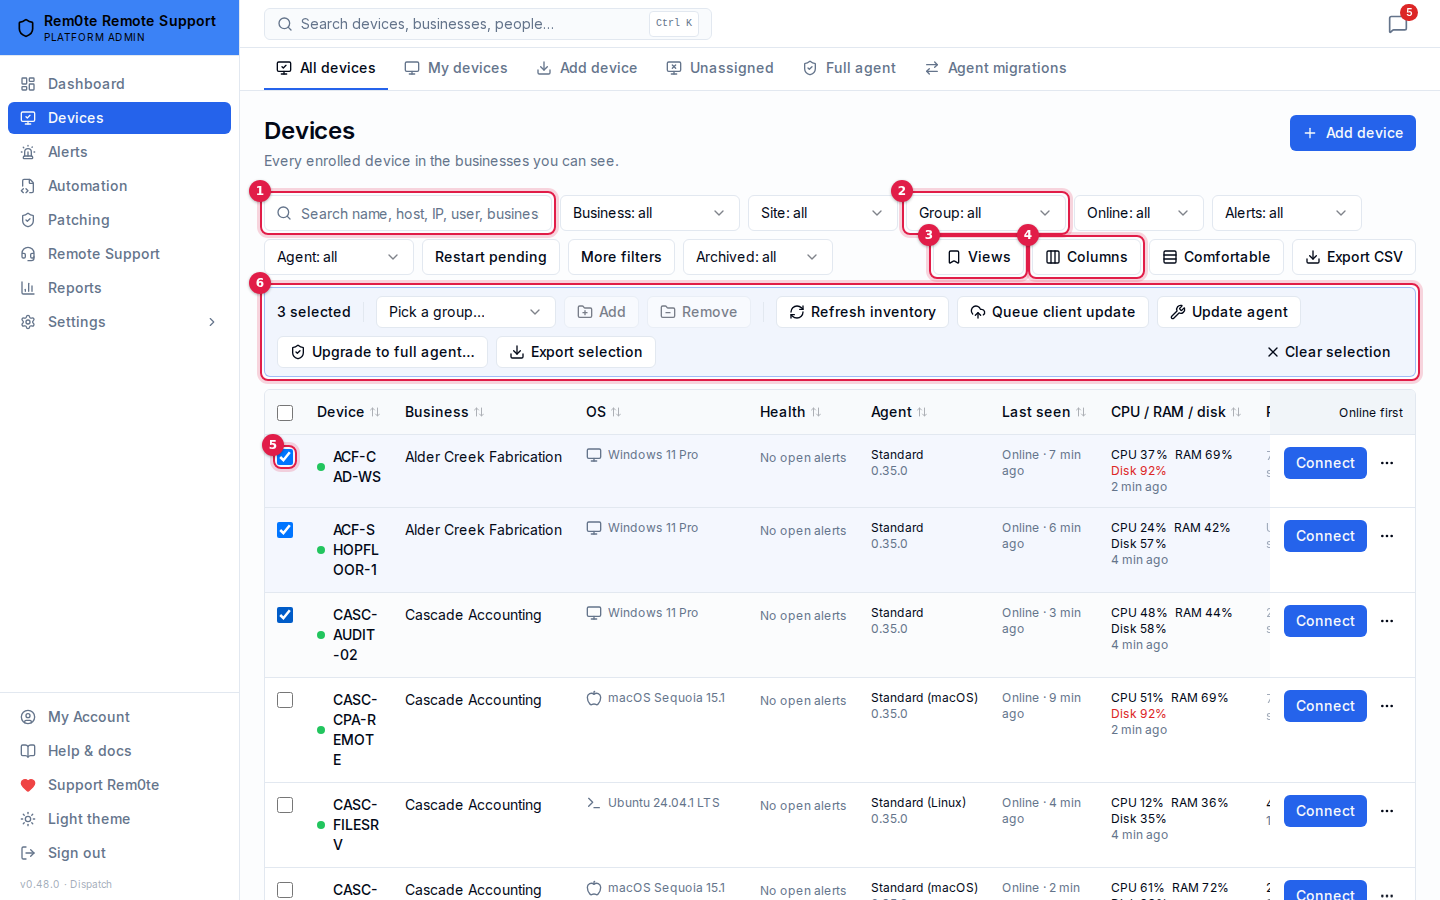
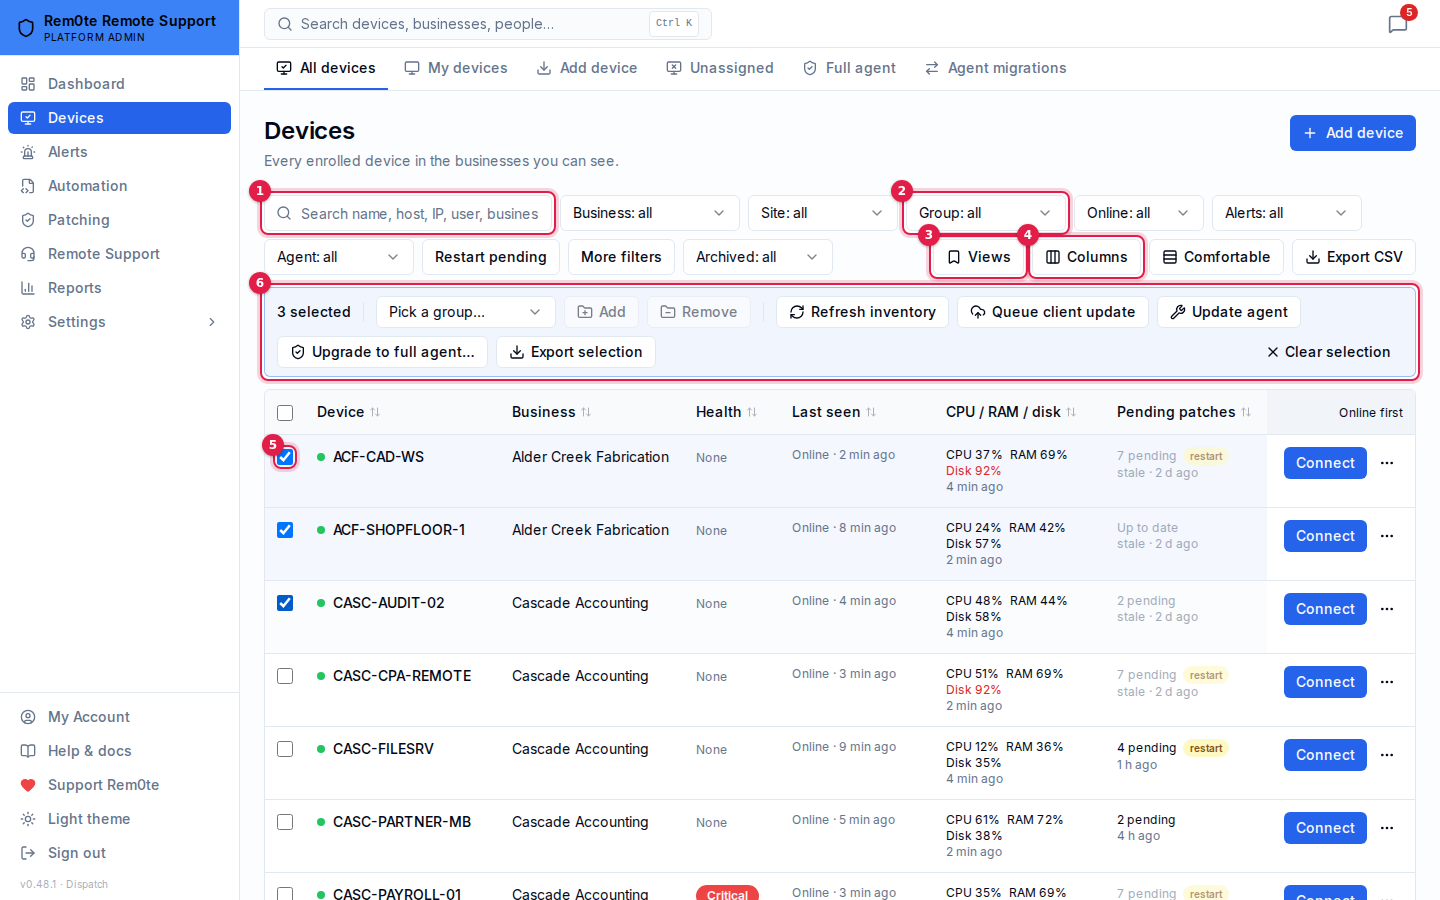
v0.48.1: Devices list fits at 1440 and 1280 px
0.47.1's break-all split single-token device names mid-word, and OS, Agent
and Last seen still pushed Pending patches under the pinned Connect column
at 1440 px. Device names are nowrap again; OS and Agent show from 1536 px
(2xl); Last seen from 1440 px (a new 'wide' step); Health's empty state is
a short "None". Measured on the docs stack: scrollWidth == clientWidth at
1440x1000 (1150) and 1280x900 (990). Docs and the list images updated.

diff --git a/apps/web/components/endpoints/list/columns.tsx b/apps/web/components/endpoints/list/columns.tsx
@@ -41,8 +41,13 @@ export interface ColumnDef {
   /**
    * 0.47.1: hidden on narrower screens so the default set fits beside the
    * sidebar without sideways scrolling. Literal classes, so Tailwind sees them.
+   * 0.48.1, measured with the sidebar open: at 1440 px the content pane is
+   * 1150 px wide and Device, Business, Health, Last seen, CPU / RAM / disk and
+   * Pending patches fill it exactly; at 1280 px it is 990 px, so Last seen
+   * waits for 1440 px ('wide'), and OS, Agent, Site and Logged-in user for
+   * 1536 px ('2xl').
    */
-  hideBelow?: 'xl' | '2xl';
+  hideBelow?: 'wide' | '2xl';
   cell?: (r: DeviceRow, c: CellContext) => React.ReactNode;
 }
 
@@ -61,7 +66,7 @@ function Pct({ label, v }: { label: string; v: number | null }) {
   return <span className={hot}>{label} {v}%</span>;
 }
 
-export const HIDE_BELOW: Record<'xl' | '2xl', string> = { xl: 'hidden xl:table-cell', '2xl': 'hidden 2xl:table-cell' };
+export const HIDE_BELOW: Record<'wide' | '2xl', string> = { wide: 'hidden min-[1440px]:table-cell', '2xl': 'hidden 2xl:table-cell' };
 
 export const COLUMNS: ColumnDef[] = [
   {
@@ -71,7 +76,7 @@ export const COLUMNS: ColumnDef[] = [
         <span className={cn('h-2 w-2 rounded-full shrink-0', CONNECTIVITY_DOT[connectivityFrom(r, c.now)])} data-connectivity={connectivityFrom(r, c.now)}
           title={`${connectivityLabel(connectivityFrom(r, c.now), r.lastSeenAt, c.now)}. ${connectivityHint(connectivityFrom(r, c.now))}`} />
         <div className="min-w-0">
-          <Link href={`/endpoints/${r.id}`} className="font-medium hover:underline break-all">{r.name}</Link>
+          <Link href={`/endpoints/${r.id}`} className="font-medium hover:underline whitespace-nowrap">{r.name}</Link>
           {r.hostname && r.hostname.toLowerCase() !== r.name.toLowerCase() ? (
             <p className="text-xs text-muted-foreground truncate">{r.hostname}</p>
           ) : null}
@@ -95,7 +100,7 @@ export const COLUMNS: ColumnDef[] = [
     )),
   },
   {
-    id: 'os', label: 'OS', defaultOn: true, sort: 'os', hideBelow: 'xl',
+    id: 'os', label: 'OS', defaultOn: true, sort: 'os', hideBelow: '2xl',
     cell: (r) => (
       <span className="flex items-center gap-1.5" title={r.os ?? r.platform ?? 'Unknown'}>
         <OsIcon platform={r.platform ?? r.os} />
@@ -109,13 +114,13 @@ export const COLUMNS: ColumnDef[] = [
       if (!r.alerts) return <span className="text-muted-foreground" title="Seeing alerts needs the monitoring:alerts permission">—</span>;
       // Derived from open monitoring alerts only: "no open alerts" is not a
       // claim that nothing is wrong, only that no monitor says so.
-      if (!r.alerts.open) return <span className="text-xs text-muted-foreground whitespace-nowrap">No open alerts</span>;
+      if (!r.alerts.open) return <span className="text-xs text-muted-foreground whitespace-nowrap" title="No open alerts">None</span>;
       const w = r.alerts.worst;
       return <Badge variant={w === 'CRITICAL' ? 'destructive' : w === 'WARNING' ? 'warning' : 'secondary'}>{w === 'CRITICAL' ? 'Critical' : w === 'WARNING' ? 'Warning' : 'Info'}</Badge>;
     },
   },
   {
-    id: 'agent', label: 'Agent', defaultOn: true, sort: 'agent',
+    id: 'agent', label: 'Agent', defaultOn: true, sort: 'agent', hideBelow: '2xl',
     // The last heartbeat is the Last seen column; this one says which agent sent it.
     cell: (r, c) => (
       <div className="text-xs whitespace-nowrap" title={r.agent.lastHeartbeatAt ? `Last heartbeat ${new Date(r.agent.lastHeartbeatAt).toLocaleString()}` : 'No heartbeat yet'}>
@@ -127,7 +132,7 @@ export const COLUMNS: ColumnDef[] = [
     ),
   },
   {
-    id: 'lastSeen', label: 'Last seen', defaultOn: true, sort: 'lastSeen',
+    id: 'lastSeen', label: 'Last seen', defaultOn: true, sort: 'lastSeen', hideBelow: 'wide',
     cell: (r, c) => (
       <span className={cn('text-xs block max-w-[8rem]', connectivityFrom(r, c.now) === 'agent_silent' ? CONNECTIVITY_TEXT.agent_silent : 'text-muted-foreground')}
         title={`${r.lastSeenAt ? new Date(r.lastSeenAt).toLocaleString() : 'Never'}${connectivityFrom(r, c.now) === 'agent_silent' ? `. ${connectivityHint('agent_silent')}` : ''}`} data-testid="last-seen-cell">

diff --git a/apps/web/app/(app)/help/page.tsx b/apps/web/app/(app)/help/page.tsx
@@ -316,12 +316,12 @@ const SECTIONS: Section[] = [
           device last reported, not what it is doing now. Health and alerts need the monitoring:alerts permission.
         </p>
         <p>
-          <strong className="text-foreground">Narrower windows show fewer columns (0.47.1).</strong> So the list fits
-          without scrolling sideways, OS shows only on windows at least 1280 pixels wide, and Site and Logged-in user
-          only from 1536 pixels; the column picker marks them <em>(wide screens)</em>. Alerts is off by default, because
-          Health already shows the worst open alert. Long business and site names are cut short with the full name on
-          hover, device names and figures wrap, and Connect
-          stays on the right.
+          <strong className="text-foreground">Narrower windows show fewer columns (0.47.1, 0.48.1).</strong> So the
+          list fits beside the sidebar without scrolling sideways, Last seen shows only on windows at least 1440 pixels
+          wide, and OS, Agent, Site and Logged-in user only from 1536 pixels; the column picker marks them{' '}
+          <em>(wide screens)</em>, and the dot beside each name still shows whether it is online. Alerts is off by
+          default, because Health already shows the worst open alert. Device names never wrap, long business and site
+          names are cut short with the full name on hover, and Connect stays on the right.
         </p>
         <p>
           <strong className="text-foreground">Columns</strong> and row density are remembered in this browser.{' '}

diff --git a/docs/technician-guide.md b/docs/technician-guide.md
@@ -131,7 +131,7 @@ company-wide; for a technician, only the machines your assignment names.
 | **Device** | Name, hostname, and a dot: green online (the agent is checking in), amber reachable through RustDesk with the agent silent, grey offline. |
 | **Business / Site** | Who the machine belongs to and where. |
 | **OS** | An icon and the reported Windows edition or platform. |
-| **Health** | The worst *open* monitoring alert — Critical, Warning, Info — or *No open alerts*. That is not a promise nothing is wrong, only that no monitor says so. |
+| **Health** | The worst *open* monitoring alert — Critical, Warning, Info — or *None* (no open alerts). That is not a promise nothing is wrong, only that no monitor says so. |
 | **Agent** | *Signed* (the 0.27+ signed agent), *Standard*, or *No agent report*, with when it last checked in. |
 | **Last seen** | *Online*, *Reachable (RustDesk) · agent silent …* in amber, or how long ago it was last heard from. |
 | **Logged-in user** | Who the last heartbeat said was signed in. |
@@ -139,12 +139,15 @@ company-wide; for a technician, only the machines your assignment names.
 | **Pending patches** | From the last update scan: how many are waiting, and a *restart* tag if Windows wants one. |
 | **Alerts** | How many monitoring alerts are open (or acknowledged). Click it for the device's Monitoring tab. |
 
-**Narrower windows show fewer columns (0.47.1).** So the list fits the page without scrolling sideways, **OS**
-shows only when the window is at least 1280 pixels wide, and **Site** and **Logged-in user** only from 1536 pixels.
-The column picker marks them *(wide screens)*. A column you chose is never removed, only hidden while the window is
-narrow. **Alerts** is off by default, because **Health** already shows the worst open alert; turn it on under
-**Columns**. A browser that saved its own column choice keeps it. Long business and site names are cut short, with
-the full name on hover, and **Connect** stays pinned on the right.
+**Narrower windows show fewer columns (0.47.1, 0.48.1).** So the list fits the page beside the sidebar without
+scrolling sideways, **Last seen** shows only when the window is at least 1440 pixels wide, and **OS**, **Agent**,
+**Site** and **Logged-in user** only from 1536 pixels. At 1280 to 1439 pixels that leaves Device, Business, Health,
+CPU / RAM / disk and Pending patches; the dot beside each name still says online, agent silent or offline. The
+column picker marks the hidden ones *(wide screens)*. A column you chose is never removed, only hidden while the
+window is narrow. **Alerts** is off by default, because **Health** already shows the worst open alert (*None* when
+there is none); turn it on under **Columns**. A browser that saved its own column choice keeps it. Device names
+never wrap; long business and site names are cut short, with the full name on hover; and **Connect** stays pinned
+on the right.
 
 **Every number says how old it is, and an old one is greyed.** A resource sample
 is stale after 15 minutes (five missed heartbeats); an update scan after 36 hours.

diff --git a/CHANGELOG.md b/CHANGELOG.md
@@ -9,9 +9,9 @@ Format follows [Keep a Changelog](https://keepachangelog.com/en/1.0.0/).
 
 **The documentation, the in-app help and the screenshots catch up with 0.40 to 0.48.**
 
-Nothing in the API or the agent changes. The docs had fallen behind the code. `docs/diagnostics.md` still said
-nothing on the Processes and Services tabs acts on the computer, though 0.45 put Start, Stop, Restart, Startup
-type and End process there. The gallery said starting or stopping a service "is not offered here". The README's
+Nothing in the API or the agent changes; the one code change is the Devices list layout, below. The docs had
+fallen behind the code. `docs/diagnostics.md` still said nothing on the Processes and Services tabs acts on the
+computer, though 0.45 put Start, Stop, Restart, Startup type and End process there. The gallery said starting or stopping a service "is not offered here". The README's
 limitations said Rem0te had "no scripting… no software deployment". The 0.48 pages had no pictures at all.
 
 **Pages**
@@ -63,9 +63,25 @@ gallery now has 69 images.
 - `capture-media.mjs` takes a per-shot `height`, so a dialog taller than the window is not cut off above its
   buttons.
 
-Seen while capturing, not fixed here: at 1440 px the 0.47.1 Devices list still breaks device names mid-word
-(`break-all` on the name cell). Its last data column is partly hidden behind the pinned Connect column. The
-recaptured Devices-list images show this as it is.
+**The Devices list fits at 1440 and 1280 pixels, for real this time.** 0.47.1 set out to stop the list scrolling
+sideways, but it measured nothing. Its `break-all` on the device name split single-token names mid-word
+(`CASC-PAY` / `ROLL-01`), because breaking the name was the only way the row could shrink. Even then, OS (from
+1280 px), Agent and Last seen together were wider than the 1150 px content pane at 1440, so Pending patches sat
+under the pinned Connect column. Now, in `columns.tsx`:
+
+- The device name is `whitespace-nowrap` again.
+- OS and Agent show from 1536 px (`2xl`), with Site and Logged-in user.
+- Last seen shows from 1440 px, through a new `wide` step (`min-[1440px]`). The connectivity dot beside each name
+  still says online, agent silent or offline.
+- Health's empty state is a short muted *None*, with *No open alerts* on hover.
+
+Measured in Playwright on the docs stack with the sidebar open and the default columns. The table's `scrollWidth`
+equals its `clientWidth`: 1150 at 1440×1000 and 990 at 1280×900. Every header ends left of Connect, and every
+name is on one line.
+
+Not fixed: from 1536 px all nine columns come back at once and need 1679 px. So at 1536 to about 1970 px the table
+still scrolls sideways, and Pending patches starts under Connect. That was already so in 0.47.1. It needs the wide
+columns staged across more widths, which is a design choice rather than a fix.
 
 ---
 

diff --git a/docs/screenshots.md b/docs/screenshots.md
@@ -138,10 +138,11 @@ The platform's own security surface, in one place.
 ## Devices
 
 ### Device list — light
-<a href="images/github/computers-inventory-light.png"><img src="images/github/computers-inventory-light.png" alt="The Devices list in light theme at 1440 pixels: search, filters for business, site, group, online, alerts, agent, restart pending and archived, Views, Columns and Export CSV, above a table with device, business, OS, health, agent, last seen and CPU, RAM and disk, and a Connect button per row."></a>
+<a href="images/github/computers-inventory-light.png"><img src="images/github/computers-inventory-light.png" alt="The Devices list in light theme at 1440 pixels: search, filters for business, site, group, online, alerts, agent, restart pending and archived, Views, Columns and Export CSV, above a table with device, business, health, last seen, CPU, RAM and disk, and pending patches, and a Connect button per row."></a>
 
-From 0.47.1 the list fits the window: OS appears from 1280 pixels, Site and Logged-in user from 1536, and Alerts is
-off by default because Health already shows the worst open alert. Device names wrap rather than widen the row.
+From 0.48.1 the list fits a 1440-pixel window with the sidebar open: Last seen appears from 1440 pixels, and OS,
+Agent, Site and Logged-in user from 1536. Alerts is off by default because Health already shows the worst open
+alert.
 
 Every device you may see, across every business. The server does the searching and
 filtering, so it covers every page, not just the one on screen.

diff --git a/README.md b/README.md
@@ -90,7 +90,8 @@ says what is proven and what is not.
 - **Automatic agent updates per computer and per business (0.46)**, and **fewer "confirm it is you" prompts**
   for everyday changes (0.47, a Platform Admin setting). [Updates](docs/updates.md)
 - **Direct mode for a single operator (0.40)**: requests are signed at once, with no second approver.
-- **The Devices list fits the window (0.47.1)**: OS, Site and Logged-in user show on wider screens only.
+- **The Devices list fits the window (0.47.1, 0.48.1)**: at 1280 and 1440 pixels with the sidebar open, with
+  Last seen, OS, Agent, Site and Logged-in user kept for wider screens.
 
 ## What's new in 0.30
 

diff --git a/docs/README.md b/docs/README.md
@@ -13,7 +13,7 @@ contents panel on every page and search across all of it (press <kbd>/</kbd>).
 ## Using it
 
 - **[technician-guide.md](technician-guide.md)** — day-to-day: find a computer,
-  connect, help someone unenrolled, review sessions; which Devices-list columns show on narrower windows (0.47.1).
+  connect, help someone unenrolled, review sessions; which Devices-list columns show on narrower windows (0.48.1).
 - **[clients.md](clients.md)** — every RustDesk client Rem0te hands out, who each
   is for, and how it learns where this server is.
 - **[connecting.md](connecting.md)** — what actually happens when you click
